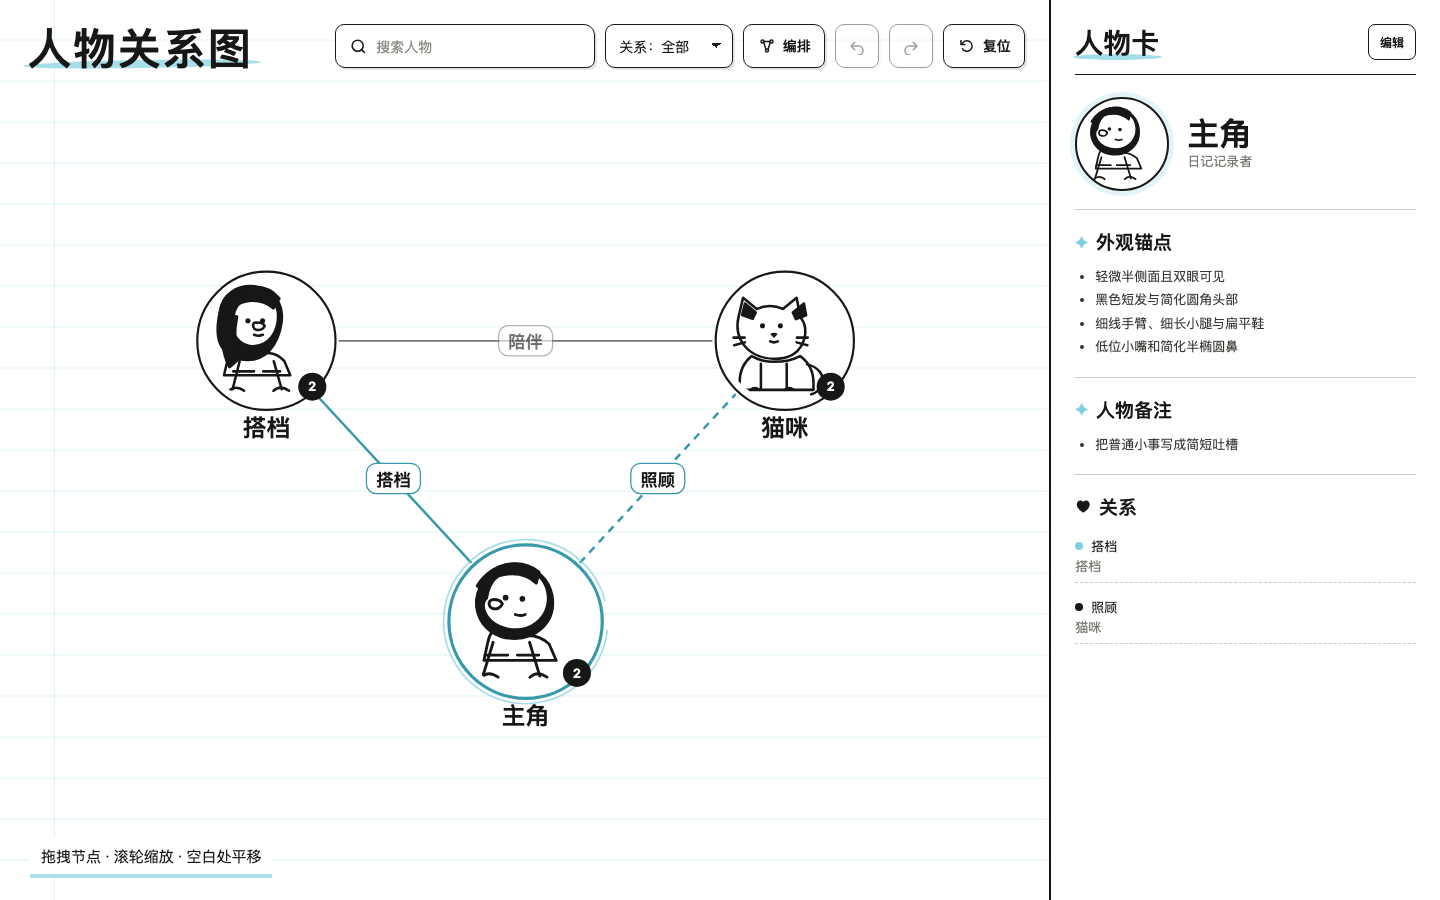
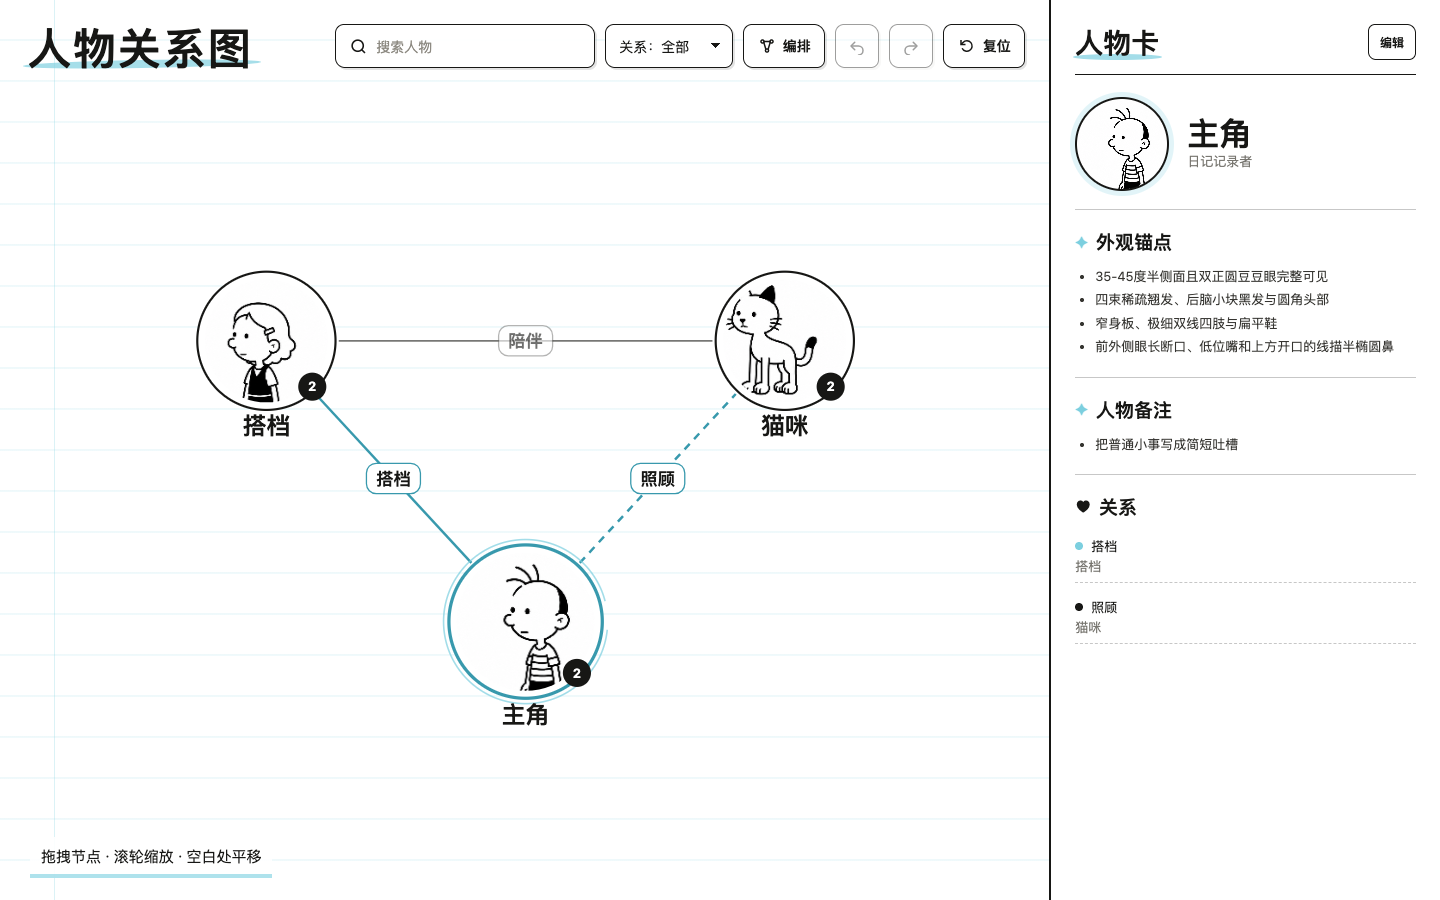
docs: refresh public examples and readme cover

diff --git a/assets/readme/cover.html b/assets/readme/cover.html
@@ -1,0 +1,66 @@
+<!doctype html>
+<html lang="zh-CN">
+<head>
+  <meta charset="utf-8">
+  <meta name="viewport" content="width=device-width,initial-scale=1">
+  <title>小屁孩日记风格 Skill</title>
+  <style>
+    * { box-sizing: border-box; }
+    html, body { margin: 0; width: 1600px; height: 720px; overflow: hidden; }
+    body {
+      color: #111;
+      font-family: "PingFang SC", "Hiragino Sans GB", "Microsoft YaHei", sans-serif;
+      background:
+        repeating-linear-gradient(to bottom, transparent 0, transparent 63px, #d9f1f6 64px, transparent 65px),
+        #fff;
+    }
+    .cover { position: relative; width: 100%; height: 100%; padding: 72px 78px; }
+    .eyebrow {
+      display: inline-flex; gap: 12px; align-items: center;
+      border: 3px solid #111; border-radius: 999px; padding: 9px 18px;
+      font-size: 22px; font-weight: 700; background: #fff;
+    }
+    .dot { width: 13px; height: 13px; border-radius: 50%; background: #62c5d8; }
+    h1 { margin: 30px 0 14px; font-size: 76px; line-height: 1.1; letter-spacing: 2px; }
+    .lead { margin: 0; width: 660px; font-size: 29px; line-height: 1.55; font-weight: 600; }
+    .chips { display: flex; gap: 14px; margin-top: 28px; }
+    .chip { padding: 10px 17px; border: 2px solid #111; border-radius: 12px; background: #fff; font-size: 19px; font-weight: 650; }
+    .lineup { position: absolute; left: 52px; bottom: -10px; width: 650px; height: 300px; object-fit: contain; object-position: center bottom; }
+    .graph {
+      position: absolute; right: 62px; top: 76px; width: 635px; height: 395px;
+      object-fit: cover; object-position: left top; border: 4px solid #111; border-radius: 22px;
+      box-shadow: 15px 15px 0 #cfeef4; background: #fff;
+    }
+    .poster {
+      position: absolute; right: 93px; bottom: -135px; width: 285px; height: 505px;
+      object-fit: cover; object-position: top; border: 4px solid #111; border-radius: 18px;
+      transform: rotate(2.5deg); box-shadow: 12px 12px 0 rgba(17,17,17,.12); background: #fff;
+    }
+    .caption {
+      position: absolute; right: 408px; bottom: 108px; width: 290px;
+      padding: 16px 18px; border: 3px solid #111; border-radius: 18px; background: #fff;
+      font-size: 22px; font-weight: 700; line-height: 1.45;
+    }
+    .caption::after {
+      content: ""; position: absolute; right: -17px; top: 34px; width: 28px; height: 28px;
+      border-top: 3px solid #111; border-right: 3px solid #111; background: #fff; transform: rotate(45deg);
+    }
+  </style>
+</head>
+<body>
+  <main class="cover">
+    <div class="eyebrow"><span class="dot"></span> Codex Skill · 黑白日记插画</div>
+    <h1>小屁孩日记风格 Skill</h1>
+    <p class="lead">把一天的小事，整理成角色一致、从上到下讲故事的 9:16 黑白日记海报。</p>
+    <div class="chips">
+      <span class="chip">日期与周几</span>
+      <span class="chip">角色一致性</span>
+      <span class="chip">可编辑关系图</span>
+    </div>
+    <img class="lineup" src="../style-reference/character-lineup-demo.png" alt="公共示例角色图集">
+    <img class="graph" src="../style-reference/character-graph-concept.png" alt="人物关系图谱">
+    <div class="caption">先查角色图谱，再画日记。<br>同一个人，每一格都认得出来。</div>
+    <img class="poster" src="../style-reference/diary-style-anchor.png" alt="日记海报示例">
+  </main>
+</body>
+</html>

diff --git a/assets/style-reference/character-graph-demo.html b/assets/style-reference/character-graph-demo.html
@@ -910,7 +910,7 @@
     {
   "status": "actual",
   "atlas": {
-    "src": "character-lineup-demo.svg",
+    "src": "character-lineup-demo.png",
     "cols": 3,
     "rows": 1
   },
@@ -925,7 +925,7 @@
       "y": 120,
       "anchors": [
         "35-45度半侧面且双正圆豆豆眼完整可见",
-        "黑色短发与简化圆角头部",
+        "四束稀疏翘发、后脑小块黑发与圆角头部",
         "窄身板、极细双线四肢与扁平鞋",
         "前外侧眼长断口、低位嘴和上方开口的线描半椭圆鼻"
       ],
@@ -945,7 +945,7 @@
       "y": -140,
       "anchors": [
         "35-45度半侧面且双正圆豆豆眼完整可见",
-        "长发轮廓用大块线面概括",
+        "耳上短波浪发、单枚发夹与圆角头部",
         "窄身板、极细双线四肢与扁平鞋",
         "前外侧眼长断口、低位嘴和上方开口的线描半椭圆鼻"
       ],
@@ -964,9 +964,9 @@
       "x": 240,
       "y": -140,
       "anchors": [
-        "35-45度半侧面、大头窄身和完整双耳",
+        "35-45度半侧面、大头窄身和黑色远耳耳尖",
         "双眼下方中央的小黑色猫鼻",
-        "极细四肢、略大爪掌和简化尾巴",
+        "极细四肢、略大爪掌和黑色尾尖",
         "无写实毛发和眼睛高光"
       ],
       "notes": [

diff --git a/README.md b/README.md
@@ -1,48 +1,76 @@
-# 小屁孩日记风格 Skill
+<p align="center">
+  <img src="assets/readme/cover.png" alt="小屁孩日记风格 Skill 封面" width="100%">
+</p>
 
-> 原创黑白幽默日记插画 Skill：把一天的经历整理成 9:16 竖版日记海报，并通过人物关系图保持角色和宠物前后一致。
+<p align="center">
+  <strong>把一天的小事，画成角色一致、从上到下讲故事的 9:16 黑白日记海报。</strong>
+</p>
 
-本项目只提取黑白稚拙线描、日记纸、夸张动作和短对话等非专属特征，不复制任何已出版作品的具体角色、字体、页面或笑点。
+<p align="center">
+  <a href="LICENSE"><img src="https://img.shields.io/badge/License-MIT-111111.svg" alt="MIT License"></a>
+  <img src="https://img.shields.io/badge/Codex-Skill-62c5d8.svg" alt="Codex Skill">
+  <img src="https://img.shields.io/badge/Version-0.1.3-111111.svg" alt="Version 0.1.3">
+</p>
 
-## 这个 Skill 是什么
+本项目是一套原创黑白幽默日记插画 Skill。它会先检索人物关系图，再根据日记内容生成海报，让同一人物和宠物在连续页面中保持一致。
 
-它适合在 Codex 中把文字、照片摘要、聊天记录或事件清单变成一页原创日记插画：
+> 只提取黑白稚拙线描、日记纸、夸张动作和短对话等非专属特征，不复制已出版作品的具体角色、字体、页面或笑点。
 
-- 顶部包含日期、周几和日记标题。
-- 画面为 9:16 竖版，从上到下讲述 3–6 个小场景。
-- 每个场景配一条简短卡通手写总结，场景之间保留清楚留白。
-- 统一使用黑白线稿和浅蓝单行本横线，不做写实渲染。
-- 生成前检索人物关系图，复用已登记角色的头像、五官、头身比和服装锚点。
-- 角色不在图谱中时，先请求补充图片，转绘入库后再继续生成。
-- 提供可拖拽、可编辑、可自动编排的 HTML 人物关系图。
+## 先看效果
 
-## 产出
+### 日记海报
+
+<p align="center">
+  <img src="assets/style-reference/diary-style-anchor.png" alt="9:16 黑白日记海报示例" width="430">
+</p>
+
+### 可编辑人物关系图
+
+![人物关系图谱 HTML 页面截图](assets/style-reference/character-graph-concept.png)
+
+浏览态用于查看人物卡和关系；点击“编辑”后可拖拽节点、建立或断开连线、修改关系名称、自动编排、撤销和重做。
+
+[打开可交互示例 HTML](assets/style-reference/character-graph-demo.html)
+
+## 能做什么
+
+| 日记编排 | 角色一致性 | 人物关系图 |
+| --- | --- | --- |
+| 日期、周几、标题和 3–6 个纵向场景 | 复用头像、五官、比例、服装与宠物锚点 | HTML 节点拖拽、关系编辑与智能编排 |
+| 每格短总结和少量对话气泡 | 新角色先转绘入库，再生成日记 | 支持增删角色、修改详情和导出数据 |
+
+主要产出：
 
 - 9:16 黑白日记海报 PNG。
 - 任务专用人物关系图 HTML。
-- 角色图集和可复用的风格参考资产。
-- 需要时，输出适配当前任务的分镜和短旁白建议。
+- 角色图集和可复用身份锚点。
 
-## 30 秒安装
+## 安装
 
-Skill 本身在 Codex 本地运行，不要求 Node.js。下面的 AI Agent 安装方式只需要本机能执行 `git`。
+### 推荐：让 AI Agent 安装
 
-### 推荐：让 AI Agent 帮你安装
-
-把下面这段话直接发给有本地终端权限的 AI Agent：
+把下面这句话发给有本地终端权限的 AI Agent：
 
 ```text
-请帮我安装 Codex Skill：
+请安装这个 Codex Skill，并在安装后检查 SKILL.md 是否存在：
 https://github.com/HoweTsui/cartoon-diary-journal
-
-请按以下要求执行：
-1. 安装到 ${CODEX_HOME:-$HOME/.codex}/skills/cartoon-diary-journal。
-2. 如果目录已经存在，执行 git -C "${CODEX_HOME:-$HOME/.codex}/skills/cartoon-diary-journal" pull --ff-only；如果不存在，执行 mkdir -p "${CODEX_HOME:-$HOME/.codex}/skills"，再将仓库克隆到 "${CODEX_HOME:-$HOME/.codex}/skills/cartoon-diary-journal"。
-3. 安装后确认目录中存在 SKILL.md、agents/、references/ 和 assets/。
-4. 告诉我最终安装路径和检查结果。
 ```
 
-也可以手动执行下面的等价命令：
+Agent 应安装到：
+
+```text
+${CODEX_HOME:-$HOME/.codex}/skills/cartoon-diary-journal
+```
+
+### Skills CLI
+
+```bash
+npx skills add HoweTsui/cartoon-diary-journal --skill cartoon-diary-journal --agent codex --global
+```
+
+只有使用 `npx skills` 安装器时才需要 Node.js；Skill 本身不依赖 Node.js。
+
+### 手动安装
 
 ```bash
 skill_dir="${CODEX_HOME:-$HOME/.codex}/skills/cartoon-diary-journal"
@@ -54,71 +82,50 @@ else
 fi
 ```
 
-### 可选：使用 Skills CLI
-
-只有选择这种安装器时才需要 Node.js 和 npm：
-
-```bash
-npx skills add https://github.com/HoweTsui/cartoon-diary-journal \
-  --skill cartoon-diary-journal \
-  --agent codex \
-  --global
-```
-
-检查或更新：
-
-```bash
-npx skills list --global
-npx skills update cartoon-diary-journal --global
-```
-
-## 安装后怎么用
+## 第一次使用
 
 在 Codex 中直接说：
 
 ```text
 Use $cartoon-diary-journal
-把下面这段经历整理成一页日记海报：
-日期：2026-08-22
-标题：CodeX 重置中
-内容：我等待重置时先写日记，猫咪在旁边踩乱了纸张。
+把下面经历整理成一页 9:16 黑白日记海报：
+日期：2026-08-24
+标题：更新先走了一步
+内容：电脑更新时，我先把零散想法写进日记，猫咪踩乱了一张纸。
 ```
 
-也可以直接附上照片、聊天记录或事件清单。Skill 会先确认日期、出场角色和人物图谱，再开始生成。
+也可以附上照片、聊天记录或事件清单。Skill 会先确认日期、出场角色和人物图谱，再开始生成。
 
-## 工作流程
+## 工作方式
 
-1. 提取日期、标题、3–6 个事件和每个事件的出场角色。
-2. 检查角色是否存在于当前人物关系图和头像图集。
-3. 已存在的角色直接复用其风格与外观锚点。
-4. 缺失角色先请求图片，统一转绘后补入图谱。
-5. 生成由上至下排列的 9:16 日记海报。
-6. 检查日期、人物一致性、五官完整性、线条、色彩和文字后交付。
+```text
+日记内容
+   ↓
+检索人物关系图和角色图集
+   ├─ 已存在：复用身份锚点
+   └─ 不存在：请求参考图 → 统一转绘 → 补入图谱
+   ↓
+生成 9:16 纵向日记海报
+   ↓
+检查日期、角色、五官、肢体、文字和色彩
+```
 
-## 画面规则
+## 核心画面规则
 
-- 黑白中粗墨线、纯白纸面、低噪点；只允许浅蓝单行本横线。
-- 顶部固定 `YYYY.MM.DD 周X`，下一行放标题。
-- 人物和动物统一采用约 35°–45° 半侧面，必须看见两只同尺寸正圆豆豆眼；禁止正面和单眼正侧面。
-- 脸部外轮廓平滑，不出现折点、直角或硬转折。
-- 人脸前外侧眼旁从发际/眉线高度到鼻根保留长断口；断口中不画眉毛或鼻梁。
-- 人物鼻是上方开口、不填黑的线描半椭圆；动物使用物种正确的单一实心黑鼻，两套鼻型不能互换。
-- 身板窄，上臂、前臂、大腿和小腿都极细；手掌略大，鞋子偏大偏扁。动物四肢也保持极细，爪掌略大。
-- 动物保留物种结构，但不画写实毛发、阴影或眼睛高光。
-- 猫鼻小而黑，位于两眼下方中央；狗鼻为口鼻前端的单个黑色椭圆。
-- 不使用彩色毛色块、渐变、灰色阴影、纸张噪点或四格漫画边框。
-- 每场必须有 4–10 字短总结；相邻场景至少空出一条笔记本横线高度。气泡只放 1–6 字短反应，整页最多 3 个。
+- 纯黑白中粗墨线、纯白纸面；只允许浅蓝单行本横线。
+- 顶部固定 `YYYY.MM.DD 周X`，下一行放标题；正文按 3–6 个场景从上到下排列。
+- 人物和动物统一采用 35°–45° 半侧面，必须看见两只同尺寸正圆豆豆眼；禁止正面和单眼正侧面。
+- 人脸轮廓平滑；前外侧眼旁从发际高度到鼻根保留长断口，不画眉毛或鼻梁。
+- 人物鼻使用上方开口、不填黑的线描半椭圆；动物使用物种正确的实心黑鼻，两者不能互换。
+- 身板窄，上臂、前臂、大腿和小腿保持极细；手掌略大，鞋子偏大偏扁。
+- 动物四肢极细、爪掌略大，不画写实毛发、阴影或眼睛高光。
+- 每场使用 4–10 字短总结；相邻场景保留明显空白。气泡只放 1–6 字短反应，整页最多 3 个。
+
+完整规范见 [SKILL.md](SKILL.md) 与 [references/](references/)。
 
 ## 人物关系图
 
-关系图是全局角色参考，不按日期组织。浏览态只显示纯文本；点击“编辑”后可：
-
-- 拖拽节点和空白画布。
-- 从控制点吸附建立关系，拖出端点断开关系。
-- 双击连线名称修改关系，Enter 保存，Escape 取消。
-- 使用一键智能编排、撤销和重做。
-
-创建实际任务图谱时，使用模板填写真实角色和关系：
+关系图是全局角色参考，不按日期组织。生成实际任务图谱时，先填写任务数据，再构建 HTML：
 
 ```bash
 python3 scripts/build_character_graph.py \
@@ -126,45 +133,24 @@ python3 scripts/build_character_graph.py \
   --output /path/to/task-output/character-graph.html
 ```
 
-## 示例
-
-### 日记海报
-
-![黑白日记海报示例](assets/style-reference/diary-style-anchor.png)
-
-### 人物关系图谱
-
-![人物关系图谱 HTML 页面截图](assets/style-reference/character-graph-concept.png)
-
-[打开人物关系图谱示例 HTML](assets/style-reference/character-graph-demo.html)
-
-## 目录
+## 项目结构
 
 ```text
 cartoon-diary-journal/
 ├── SKILL.md                 # Skill 主规则
 ├── agents/openai.yaml       # Agent 显示信息
-├── references/              # 风格、版式、图库、隐私与 QA 规则
-├── scripts/                 # 图谱构建等辅助脚本
+├── references/              # 风格、版式、图库与 QA 规则
+├── scripts/                 # 图谱构建和辅助脚本
 └── assets/
+    ├── readme/              # README 封面素材
     ├── style-reference/     # 公开示例与风格参考
-    └── templates/            # 任务数据模板
+    └── templates/           # 任务数据模板
 ```
 
 ## 适用范围
 
-适合：
+适合个人日记、生活记录和连续角色故事；不适合写实人像、摄影风、三维渲染、复杂彩色插画，或复刻已出版作品的具体角色与页面。
 
-- Codex 中的个人日记、生活记录和连续角色故事。
-- 需要长期保持人物、宠物和画面风格一致的插画任务。
-- 喜欢黑白、低噪点、手绘线稿和简短叙事的人。
+## License
 
-不适合：
-
-- 写实人像、摄影风、三维渲染或复杂彩色插画。
-- 复制已出版作品的具体角色、字体、页面或构图。
-- 需要逐像素编辑的矢量插画或商业品牌主视觉。
-
-## 许可与本地运行
-
-代码与文档沿用仓库中的 MIT 许可。Skill 安装后在用户本机运行，读取的输入、人物图谱和生成的海报默认保存在本地工作区；用户可以自行决定是否导出或分享这些文件。
+[MIT](LICENSE)

diff --git a/CHANGELOG.md b/CHANGELOG.md
@@ -2,6 +2,12 @@
 
 ## [Unreleased]
 
+## [0.1.3] - 2026-08-24
+
+- 重新生成公共角色图集与 9:16 日记海报，统一半侧面双豆豆眼、极细四肢和人物/动物鼻型。
+- 使用真实人物关系图 HTML 重新生成截图，修正节点头像与右侧人物卡的映射。
+- 重构 README：新增项目封面、前置真实效果、简化安装说明，并保留可复制的 Agent 安装提示。
+
 ## [0.1.2] - 2026-08-24
 
 - 将全身/坐姿人物的裤腰、裆部和独立裤腿设为 P0 门禁，禁止上衣直接连接双腿。

diff --git a/CONTRIBUTING.md b/CONTRIBUTING.md
@@ -37,9 +37,9 @@ git push origin main --follow-tags
 版本号写入 `VERSION`，变更写入 `CHANGELOG.md`。示例：
 
 ```bash
-printf '0.1.2\n' > VERSION
+printf '0.1.3\n' > VERSION
 git add VERSION CHANGELOG.md
 git commit -m "fix: tighten character matching"
-git tag -a v0.1.2 -m "小屁孩日记风格 Skill v0.1.2"
+git tag -a v0.1.3 -m "小屁孩日记风格 Skill v0.1.3"
 git push origin main --follow-tags
 ```
